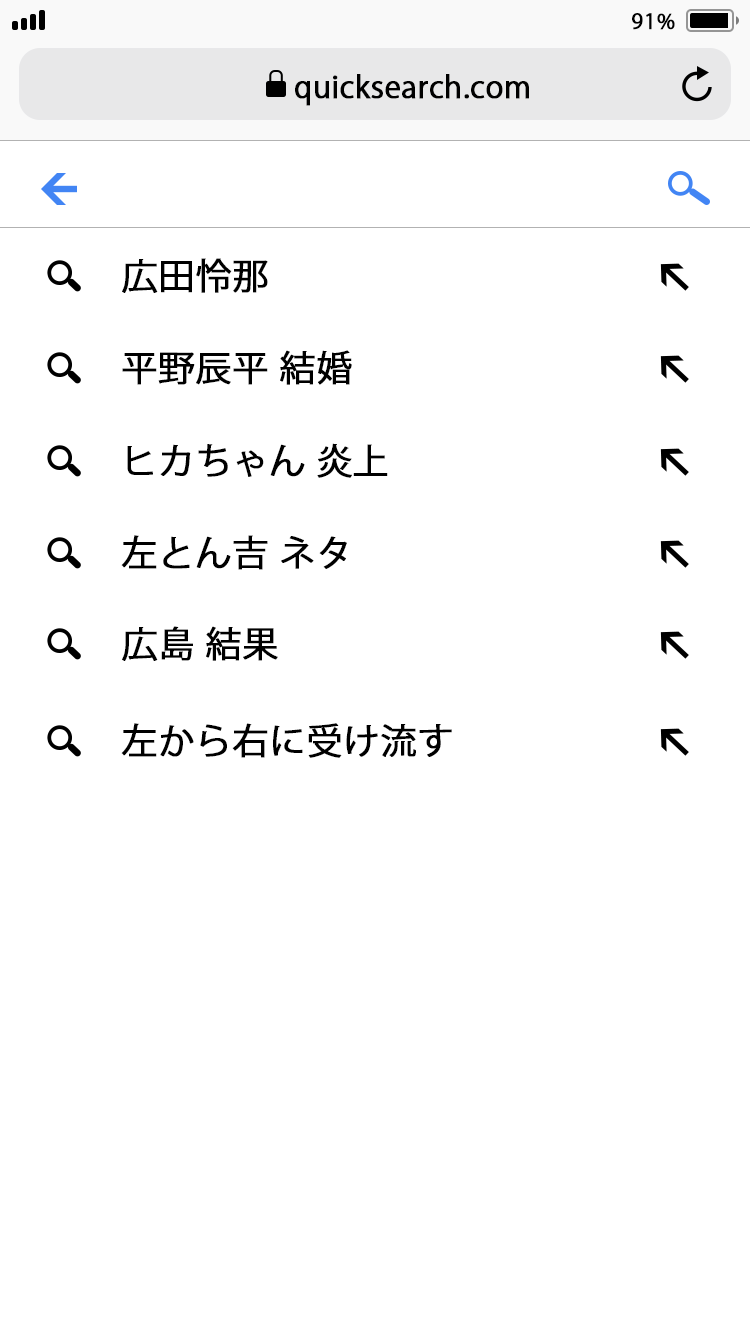
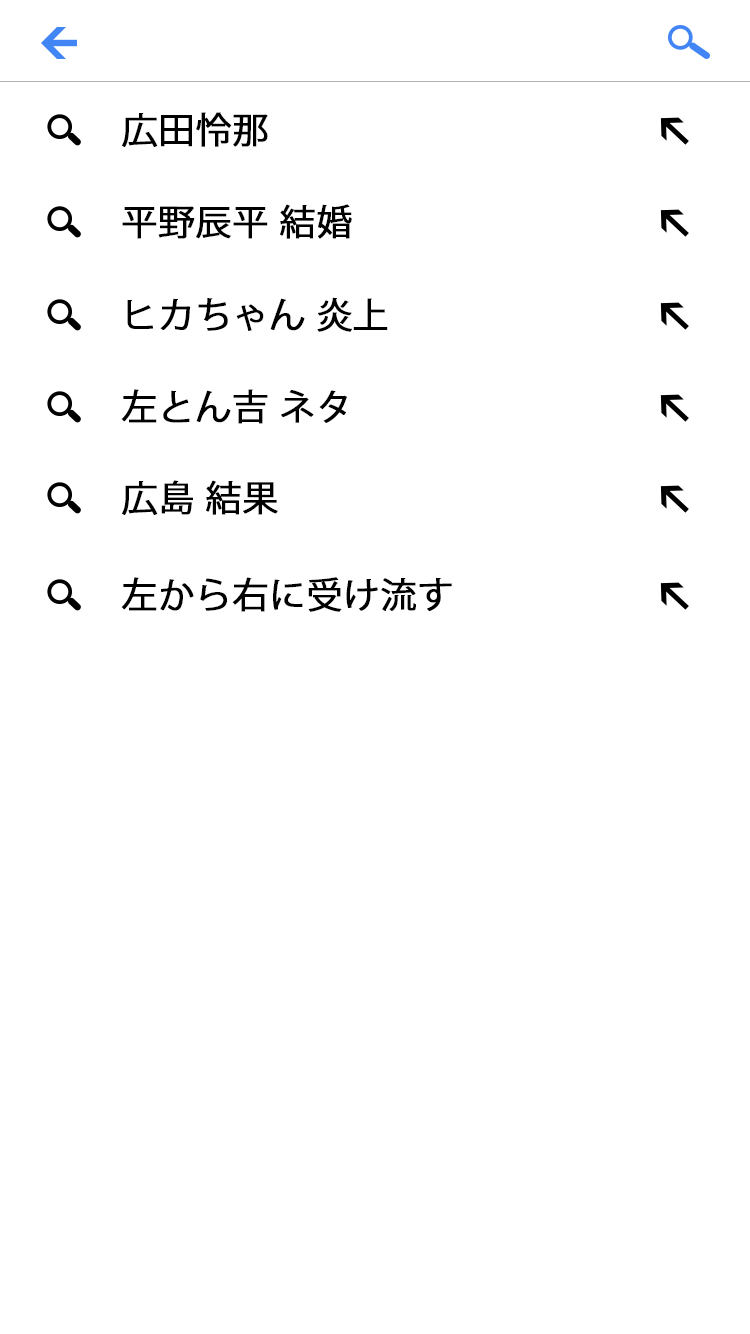
Update hikarinohako

diff --git a/public/_ex/quicks/quicksearch.html b/public/_ex/quicks/quicksearch.html
@@ -4,16 +4,21 @@
     <meta charset="UTF-8">
     <title>QuickSearch</title>
     <style>
+        #wrpa{
+            position: absolute;
+            width: 100%;
+            height: 100%;
+        }
         input:focus {
             outline: none;
         }
 
-        #tf {
+        #tf, #tf:focus {
             border: 0;
             display: block;
             position: absolute;
             left: 16%;
-            top: 12.3%;
+            top: 1.3%;
             z-index: 100;
             height: 4.3%;
             font-size: 3vh;
@@ -31,6 +36,7 @@
             crossorigin="anonymous"></script>
     <script>
         var list = {
+            '': '00',
             'ひ': '0',
             'ひか': '1',
             'ひかり': '2',
@@ -63,7 +69,9 @@
     </script>
 </head>
 <body>
-<input id="tf" type="text">
-<img id="main" src="img000.png">
+<div id="wrap">
+    <input id="tf" type="text">
+    <img id="main" src="img000.png">
+</div>
 </body>
 </html>
